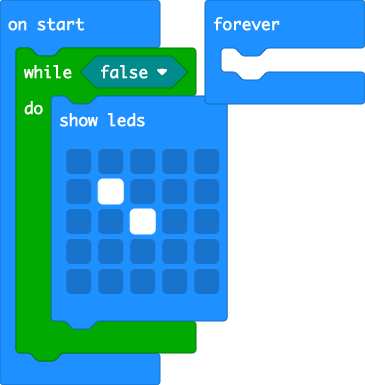
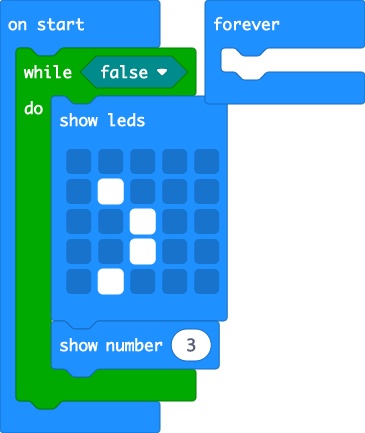
Update pxt.json, main.blocks, main.ts

diff --git a/main.ts b/main.ts
@@ -3,9 +3,10 @@ while (false) {
         . . . . .
         . # . . .
         . . # . .
-        . . . . .
-        . . . . .
+        . . # . .
+        . # . . .
         `)
+    basic.showNumber(3)
 }
 basic.forever(function () {
 	
